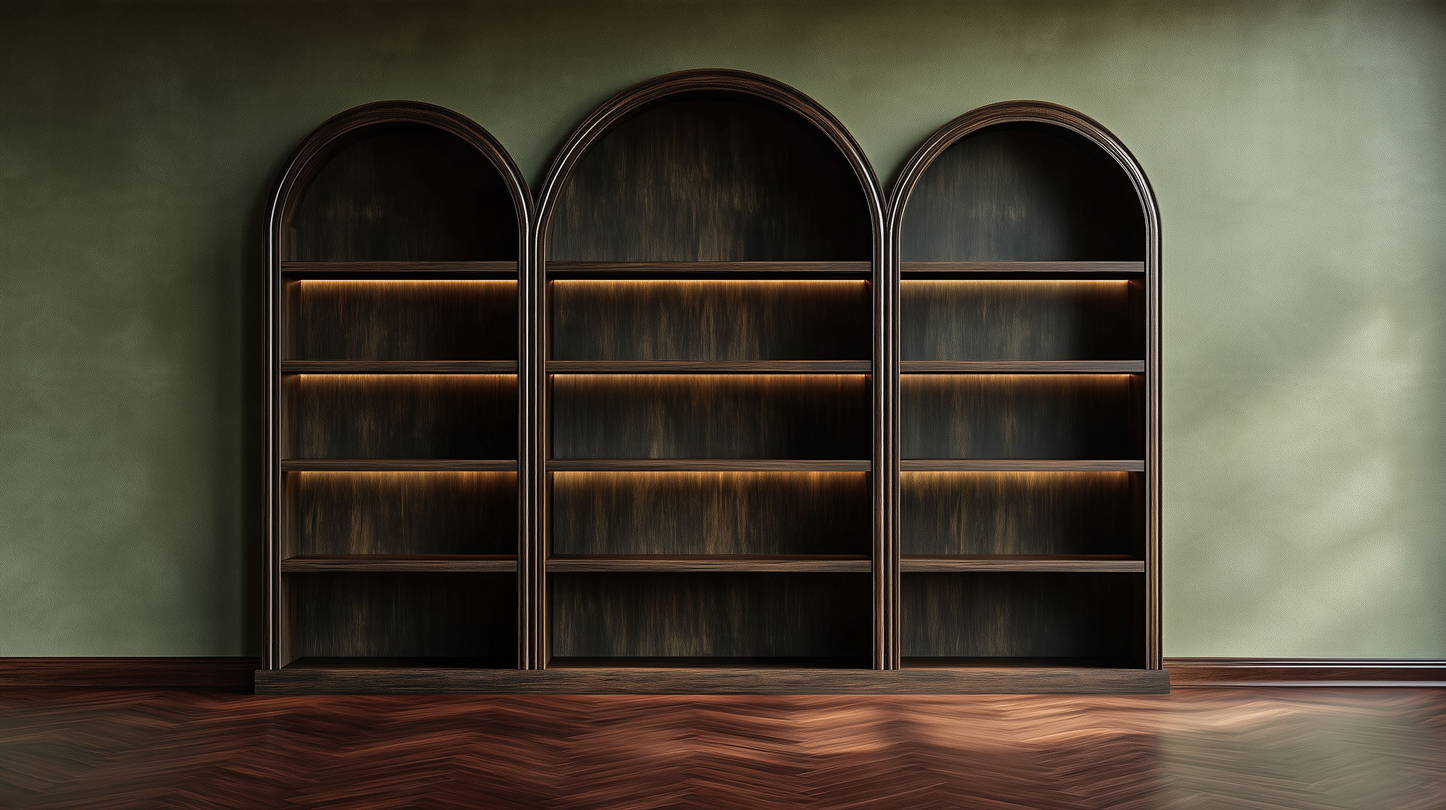
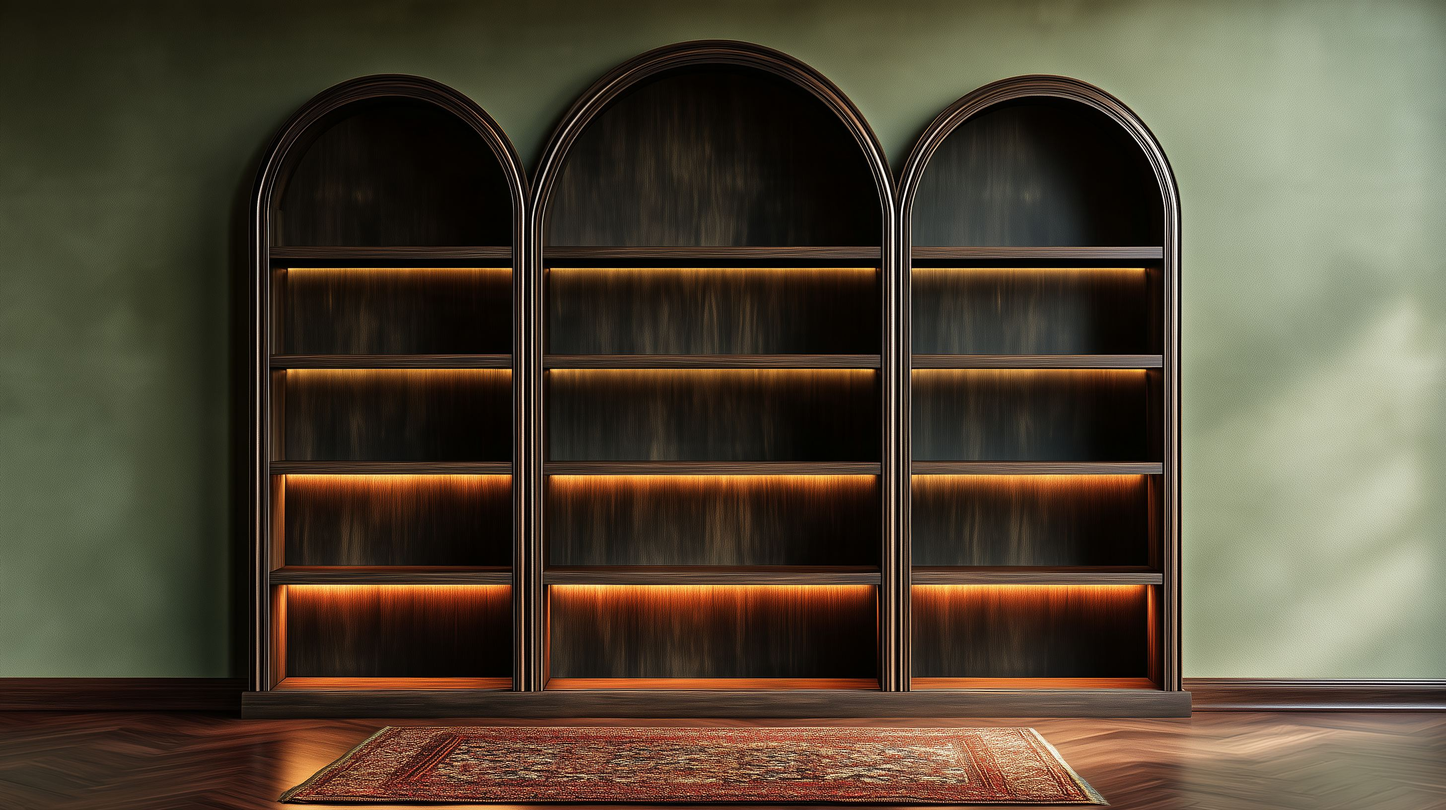
Swap in the new room photo: rug and lit bottom row
Re-measured all 12 bays for the new image; every row now catches its
shelf light.

Claude-Session: https://claude.ai/code/session_01BKxVmdhpwGpXez5ZdSrwBH

diff --git a/js/layout.js b/js/layout.js
@@ -6,22 +6,22 @@ export const EYE = { x: 1456, y: 816 };
 export const PERSPECTIVE = 3600;
 
 // The bookcase itself, including frame and arches. Keeps it on screen on small displays.
-export const CASE = { x0: 520, x1: 2360, y0: 130, y1: 1410 };
+export const CASE = { x0: 470, x1: 2410, y0: 70, y1: 1450 };
 
 // Inner edges of the three bay columns.
 const COLS = [
-  { x: 565, w: 477 },
-  { x: 1100, w: 652 },
-  { x: 1810, w: 494 },
+  { x: 556, w: 474 },
+  { x: 1098, w: 664 },
+  { x: 1836, w: 490 },
 ];
 
 // Each row: top = underside of the shelf above, base = where books stand,
 // board = vertical center of the shelf's front edge (for the brass plate).
 const ROWS = [
-  { top: 548, base: 728, board: 738, lit: true },
-  { top: 750, base: 924, board: 939, lit: true },
-  { top: 952, base: 1121, board: 1141, lit: true },
-  { top: 1152, base: 1334, board: 1376, lit: false },
+  { top: 524, base: 724, board: 728, lit: true },
+  { top: 746, base: 937, board: 941, lit: true },
+  { top: 960, base: 1150, board: 1155, lit: true },
+  { top: 1182, base: 1382, board: 1418, lit: true },
 ];
 
 // Genre for each bay, row by row, left to right.

diff --git a/styles.css b/styles.css
@@ -38,11 +38,7 @@ button { font: inherit; color: inherit; }
   transition: opacity 0.6s ease;
 }
 .ext-top { background: linear-gradient(#15130b 50%, #3a3522); }
-.ext-bottom {
-  background-image: linear-gradient(rgba(16, 8, 4, 0.2), rgba(16, 8, 4, 0.94) 240px), url("assets/floor-bottom.jpg");
-  background-size: 100% 100%, 100% auto;
-  background-repeat: no-repeat, repeat-y;
-}
+.ext-bottom { background: linear-gradient(#3a2119, #1d100b 160px, #0f0806); }
 .scene.zooming .ext { opacity: 0; }
 .photo {
   position: absolute;
